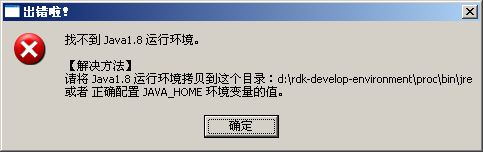
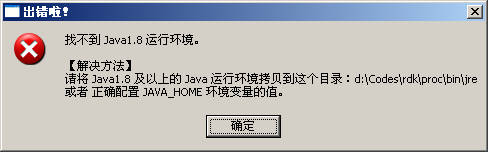
更新文档

diff --git a/doc/manual.md b/doc/manual.md
@@ -74,25 +74,31 @@ SVN下载完成之后，就可以在 `d:\rdk-develop-environment\rdk\app` 目录
 
 说明你当前环境使用的Java运行环境版本过低，请使用至少Java1.8以上的版本。这里可以下载到 [Win32](http://10.9.233.35:8080/tools/jre1.8.0_32_101.zip) 或者 [Win64](http://10.9.233.35:8080/tools/jre1.8.0_64_101.zip) 的Java8运行环境。
 
+#### 无nodejs运行环境
+如果启动的时候，报错：
 
-#### example页面长时间都是空白 {#can-not-open-example}
-
-1. 检查一下本地的目录的最里面的文件夹是不是 `rdk_server`，如果不是，请改过来。
-
-
-#### 'node' 不是内部或外部命令
-
-控制台报错：
-
-	'node' 不是内部或外部命令，也不是可运行的程序
-	或批处理文件。
-	请按任意键继续. . .
+![](server/img/no_nodejs_error.PNG)
 
 原因：说明当前电脑没有安装nodejs
 
-解决：[下载nodejs](http://10.9.233.35:8080/tools/node-v5.10.1-x86.msi)并正确安装
+解决：[下载nodejs](http://nodejs.cn/)并正确安装，需要至少 v4.2 以上版本
 
-#### 端口被占
+#### RDK服务端口被占
+在 “RDK Server for Windows” 的RDK页的控制台看到如下打印
+
+	2016-11-16 12:34:51,507 WARN  [UpgradableHttpListener] Bind to localhost/127.0.0.1:5888 failed
+	2016-11-16 12:34:51,523 WARN  [HttpListener] Bind to localhost/127.0.0.1:5812 failed
+	2016-11-16 12:34:51,539 ERROR [Run$] !!! RDK Server starts failed. java.lang.RuntimeException: Binding failed. Switch on DEBUG-level logging for `akka.io.TcpListener` to log the cause.
+
+原因：5812端口被占用
+
+解决方案：看看是否有其他RDK调试工具正在运行，请释放5812端口。
+
+也可以修改RDK服务进程的监听端口，编辑 `d:\rdk-develop-environment\rdk\proc\conf\rdk.cfg`，修改 `listen.port` 配置项就好。修改RDK默认监听端口比较麻烦，不推荐。
+
+
+#### HTTP端口被占
+在 “RDK Server for Windows” 的HTTP页的控制台看到如下打印
 
 	connect.limit() will be removed in connect 3.0
 	events.js:141
@@ -115,22 +121,44 @@ SVN下载完成之后，就可以在 `d:\rdk-develop-environment\rdk\app` 目录
 
 解决方案：
 
+建议释放8080端口给RDK调试器使用，或者更改RDK的调试端口：
+
 <a name="config-http-port"></a>
-编辑 `d:\vmax-rdk\tools\http_server\serv\config.json` 文件，修改其中的端口号就行啦：
+编辑 `d:\rdk-develop-environment\tools\http_server\config.json` 文件，修改其中的端口号就行啦：
 
 	{
-		"root": "./../../../",
+		"root": "./../../",
 		"port": 8080,
 		"proxy": [{
 			"url": "/rdk/service",
 			"port": 5812,
 			"host": "localhost"
+		},{
+			"url": "/demos",
+			"port": 9090,
+			"host": "localhost"
 		}]
 	}
 
-> **注意**<br>
-> 1. 8080端口可以随意改为其他值<br>
-> 2. 这些配置项能工作的前提是你已经按照[搭建基于windows的调试环境](#make-dev-env)小节的方法配置好本地Rest服务的运行环境了。否则请根据自身实际情况修改上述配置项。
+#### REST端口被占
+在 “RDK Server for Windows” 的REST页的控制台看到如下打印
+
+	events.js:141
+	      throw er; // Unhandled 'error' event
+	      ^
+
+	Error: listen EADDRINUSE 0.0.0.0:9090
+	    at Object.exports._errnoException (util.js:870:11)
+	    at exports._exceptionWithHostPort (util.js:893:20)
+
+原因：9090端口被占用
+
+解决方案：释放9090端口给RDK调试器，也可修改这个端口，但是比较麻烦，不推荐。
+
+> 提示：
+> 
+> 这个错误只会影响本地文档阅读体验，不会造成无法调试应用，可无视。
+
 
 ## 开发第一个应用
 
